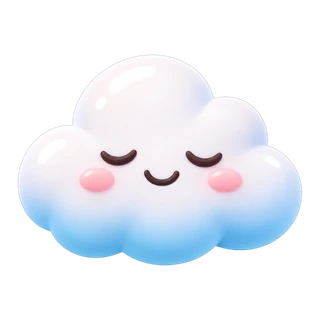
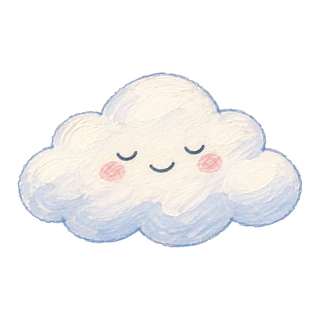
Kid pictures repainted in the house style the owner chose: a hand-painted picture book
Of four style samples the owner picked gouache and coloured pencil ("not like the
common pictures — more distinctive"). The adventure map's 14 pictures and the 14
game tiles are redrawn in it (same file names), painted on a pale lilac ground and
cut out with the enclosed holes cleared.

Claude-Session: https://claude.ai/code/session_017iRLZKAXGEzdPwAD6BpEkJ

diff --git a/public/sw.js b/public/sw.js
@@ -1,6 +1,6 @@
 // Memory Bookshelf service worker: app shell + all drawn art offline from the first visit; photos cached as you view them
 // (or all at once with "Keep this book offline"). Data (/api) is cached by the app itself (IndexedDB) and written through its queue.
-const V = 'mbs-v197';
+const V = 'mbs-v198';
 const STOCK = 'mbs-stock';   // the stock art library (/stock/, versioned file names): only a stored book's pictures, kept across shell versions too
 const MEDIA = 'mbs-media';   // photos, clips, drawn characters, emoji pictures, drawn book art: kept across shell versions, so a deploy never empties the offline pack
 const SHELL = ['/', '/app.css', '/app-legacy.css', '/core.js', '/views.js', '/sheets.js', '/kid.js', '/manifest.webmanifest', '/icon-192.png',

diff --git a/CLAUDE.md b/CLAUDE.md
@@ -51,7 +51,7 @@ UI screenshots go to `$SHOTS` (default `/tmp/mb-shots`) — look at them after U
 - **Ten levels and the adventure map** (owner, Nov 2026: "ด่านเยอะขึ้น ยากขึ้น", "แผนที่ผจญภัยจะเป็น hilight"): `LV` has ten levels a game (nine for the jigsaw); 1–5 are as before, 6–10 bring a twist (`flip`/`half` shadow, `mem` feed — the wish hides, `kgpal` asks again —, six sort colours, `where` mode `two` = two things from one instruction, `near: 2` odd, four-symbol patterns, counting to 20, a maze `star` off the route that must be picked up, `fast` simon, four more `DOT_SHAPES`, 18 match pairs). **The adventure map** (`#/kid/<kid>/quest`, banner `.kidquest` on the kid home, kid.js `questPlan`/`questHtml`): one town per day of the book walked in order, each = three missions (`QUEST_ORDER` rotates the 13 level games, no repeat in neighbouring towns; the level climbs along the road, 2 → 10, the little one 1 → 5) and a chest that opens once the three are played (the town's secret = one of the day's `passport.days[i].facts`, a `QUEST_GEM` sticker, three stars; trophies `quest1`/`questall`). A mission sets `quest = {tid, kid, town, slot, game, lv}`: `lvState` then answers the road's level, `lvSet` writes nothing (the child's own levels never move), `lvDone` marks the mission, `lvBar` shows the town, `lvWin` offers "back to the map"; any other page clears it (`questReset` drops half-played boards). Progress = ticks `quest.d<i>.<0|1|2|chest>` with day null (never a memory of a day), so it syncs between devices and is in backups; a relative's play stays in `questMem` (nothing saved). Towns ahead wait in clouds — never a lock, never `0/3`. **Depth**: a boss (`questBoss`, slot 3: one of the town's games a level up; shown once the three are played, the chest waits for it); a hidden mission in every second town (`questBonus`, slot `x`: a creature `.qhid` on the town's card, a game the town does not have, a level easier, never needed for the chest); a mission left unfinished twice comes back a level easier (`questEase`, `ls('qease_<kid>')`, this device only); three wrong taps in a round make the right answer glow in every pick game (`kgNope` → `.hint`, `kgRight`); the treasure picture `questPic` (the passport crest in as many pieces as towns, a chest uncovers one; shown once there is a piece). **The walk** (`questnext`): after a chest the child still stands in that town (`questNew` holds the map there); "on to the next town" hops a fixed copy of the character `.qwalk` along the road by the Web Animations API in px (five hops, a tap sound each), then the town opens, its cloud floats off (`.qcloud.lift`) and the guide says where we are; under reduced motion the town simply opens. A town card and a mission's page wear the town's own colours (`passport.days[i].acc/tint`; the kid header shows "เมืองที่ n" with the town's picture); the guide opens the story on a fresh road ("… ทำสมบัติหล่นตามทาง"). test/ui.mjs session `quest-ipad` runs it on 834×1112 and 1112×834 with the Australia book and motion on (`session(…, {motion: true})`). **A mission is made of its town** (`questThings(t, i)` = the day's `passport.days[i].spot`, `questAnimals` = `info.wild`, `questFoods` = `passport.food` + the lists flagged `yum`/`stars`, `questPhotos` = the family's photos of that day; all `[emoji, th, en]` with the English article dropped by `qEn`): on a mission the shadows, big-and-small, counting, patterns and the maze (one of the trip's animals looks for one of the town's things) lead with them (`qLead`), feed serves the book's foods when it has three or more, match leads with the town's photos, picture and things, the jigsaw is a photo of that day when there is one, else the town's picture (no picture switch on a mission); where / odd / colours / tune / dots stay generic. **The parents' line** (`questLine(t)` on the book's menu, only for a child who has set off: "มีมี่ อยู่เมืองที่ 4 … สมบัติ 3 ชิ้น"; editors get `questreset`, two taps: the book's quest ticks and that child's easing go).
 - **The kid map tells its places** (owner, Nov 2026: "ไม่ค่อยมีประโยชน์หรือสาระเลย ทำให้มันใช้ได้จริงหน่อย"; kid.js `mapCard(t, kid, day, at)` under `mapHtml` on `#/kid/<kid>/map`): the stop the children stand on shows its day in a card `#mapcard` — up to six of the plan's own headlines `h` (emoji + words, never a clock time; action `mapsay` reads the line aloud), the day's things to find (`daySpots`, ⭐ on the ticked ones), one fact, the family's photos of that day (→ the photo viewer on that day), "the same day we also go to …", a button to that town on the adventure map (`mapquest`; a town not reached opens the road where the child stands) and, on the day itself, "go and find them". `‹ ›` (`mapstep`) walk the journey one stop at a time (the walkers move, the card follows). The guide's line names the place and when ("วันที่ 5 เราจะไป…" / "วันนี้เราอยู่ที่…" / "เราไป…มาแล้ว").
 - **Kid mode follows the real trip** (owner, Nov 2026: "ในเล่มของเด็กลิ้งค์กับทริปจริงได้อีกไหม"; kid.js): (1) **by the clock** — on a trip day the kid home carries one slim banner `.kidnow` ("ตอนนี้ …" / "เดี๋ยวเราจะ …": `kidNowOf(t, i)` = the plan's timeline rows with a time and a headline, compared with `minsIn(row.tz || t.timezone)`; never while the surprise-box or stamp-before-bed banner shows — one banner at a time, and with it the hello steps aside and the adventure banner goes slim so the tiles stay ≥ 120 px) opening **my day** `#/kid/<kid>/day` (`kidDayHtml`: every step as a picture row — done ✓, now, next — the sleeps until home `sleepsLine`, a tap reads a step; the header shows today, not the picked day; no clock time on a kid page); (2) **the places we really went** — `mapReal(t, mm)`: a place the parents check in on the record page (`S.places`) marks the map stop of that day whose name fits it (`.pin.real` + a green ✓ flag; when no check-in of the day names a stop, every stop of that day), adds a sticker `been.<stop>` and a "เราไปมาแล้ว" list to the map's card. Nothing new is stored. **After a win** (owner, Nov 2026: the buttons hid under the bar on a Samsung S26 Ultra; "ค้างไว้ 5 วินาที แล้วออกอัตโนมัติ"): `lvWin` wraps its buttons in `.lvwin`, `winShow` scrolls them above the kid bar 1.5 s after the win, and a won mission goes back to the adventure map by itself five seconds later (`.lvwin.qauto`, a thin bar `.qbar5` runs on the button; "play again" cancels it). **Start the road again from the map**: `#qreset` at the foot of the adventure map (editors, once the road has begun) — press and hold 1.5 s like the star jar, a tap does nothing (`questWipe`, shared with the menu's two-tap `questreset`).
-- **The adventure map's own pictures** (owner, Nov 2026: an emoji looks different on every phone — the chest was a toolbox on a Samsung; "สไตล์ให้เหมาะสมกับเด็กกลางๆ เห็นแล้วเข้าใจ"): `public/art/quest/*.webp` (14 pictures, 320 px, transparent, in `sw.js` `ART`): chest, chest-open, cloud, crown (the boss), map, trophy and eight treasures in turn (`QUEST_ART`: diamond, key, coin, ruby, shell, emerald, compass, star; `QUEST_GEM` keeps the matching emoji for confetti). Drawn with the owner's Higgsfield account (glossy 3D toy style, one clear object, gender-neutral, on white), cut out here (flood-fill from the border, so highlights inside stay); `qImg(name)` → `<img class="qi">`, sized by its box in app.css. New pictures for kid mode follow this recipe; the owner approves a sample first and the credits are theirs. **Set 2** (owner: "ทำข้อ 1"): the fourteen game tiles that were still emoji (shadow, feed, sort, farm, wash, bigsmall, maze, where, odd, next, simon, dots, howmany, cake) are `public/art/kidui/<game>.webp` named in `KTILE`; the adventure map's mission buttons and the boss show the same picture (`KTILE[game][0]`), so no kid home tile and no mission is an emoji any more.
+- **The adventure map's own pictures** (owner, Nov 2026: an emoji looks different on every phone — the chest was a toolbox on a Samsung; "สไตล์ให้เหมาะสมกับเด็กกลางๆ เห็นแล้วเข้าใจ"): `public/art/quest/*.webp` (14 pictures, 320 px, transparent, in `sw.js` `ART`): chest, chest-open, cloud, crown (the boss), map, trophy and eight treasures in turn (`QUEST_ART`: diamond, key, coin, ruby, shell, emerald, compass, star; `QUEST_GEM` keeps the matching emoji for confetti). Drawn with the owner's Higgsfield account and cut out here. **The house style is a hand-painted picture book** (owner, Nov 2026: "ทำให้ไม่เหมือนกับรูปทั่วไป … เอาให้เด่นกว่า" — of four samples they chose gouache and coloured pencil: visible brush strokes and paper grain, slightly wobbly outlines, a warm palette with teal; the first glossy 3D versions were replaced): one clear subject, gender-neutral, painted on a flat pale lilac background the subjects never use, so the cut-out is a flood-fill from the border plus the enclosed lilac holes (a cup's handles); `qImg(name)` → `<img class="qi">`, sized by its box in app.css. New pictures for kid mode follow this recipe; the owner approves a sample first and the credits are theirs. **Set 2** (owner: "ทำข้อ 1"): the fourteen game tiles that were still emoji (shadow, feed, sort, farm, wash, bigsmall, maze, where, odd, next, simon, dots, howmany, cake) are `public/art/kidui/<game>.webp` named in `KTILE`; the adventure map's mission buttons and the boss show the same picture (`KTILE[game][0]`), so no kid home tile and no mission is an emoji any more.
 - Kid mode polish: `.kidwrap.enter` (from `kidEnter`, only when the view changed) slides the page in and hops the home tiles in one by one; tile emoji float (`bob`); `beep('hello')` on `kidpick`. The plane toys' tiles (I spy, bubbles, music, jigsaw) carry the owner's icons `/art/kidui/spy|bubbles|music|jigsaw.webp` (rounded stickers cut from the owner's 2×2 sheet, Nov 2026; the tile gradient matches each icon). All of it under `prefers-reduced-motion: no-preference` only (the tests ask for reduced motion, so measurements stay stable).
 - Kid home tiles never repeat the kid bar (map, stickers, trophies live only on `.kidbar`); counting (`newCount(t, kid)`) draws mostly today's mission emojis (`daySpots`), then the trip's animals and friends.
 - Kid mode on a trip day (`dayNow(t) === i`): a morning **surprise box** banner (`.kidgift` → view `gift`, action `kidgift` → tick `gift.d<i>`, a sticker of its own `giftE(i)` in `stickerSet`, then today's `daySpots` and a go-find button) until opened; from 17:00 trip time (core.js `hourIn`) a **stamp before bed** banner (`.kidnight` → the `stamp` view, which says "ปั๊ก!") until `stamp.d<i>` is ticked.
